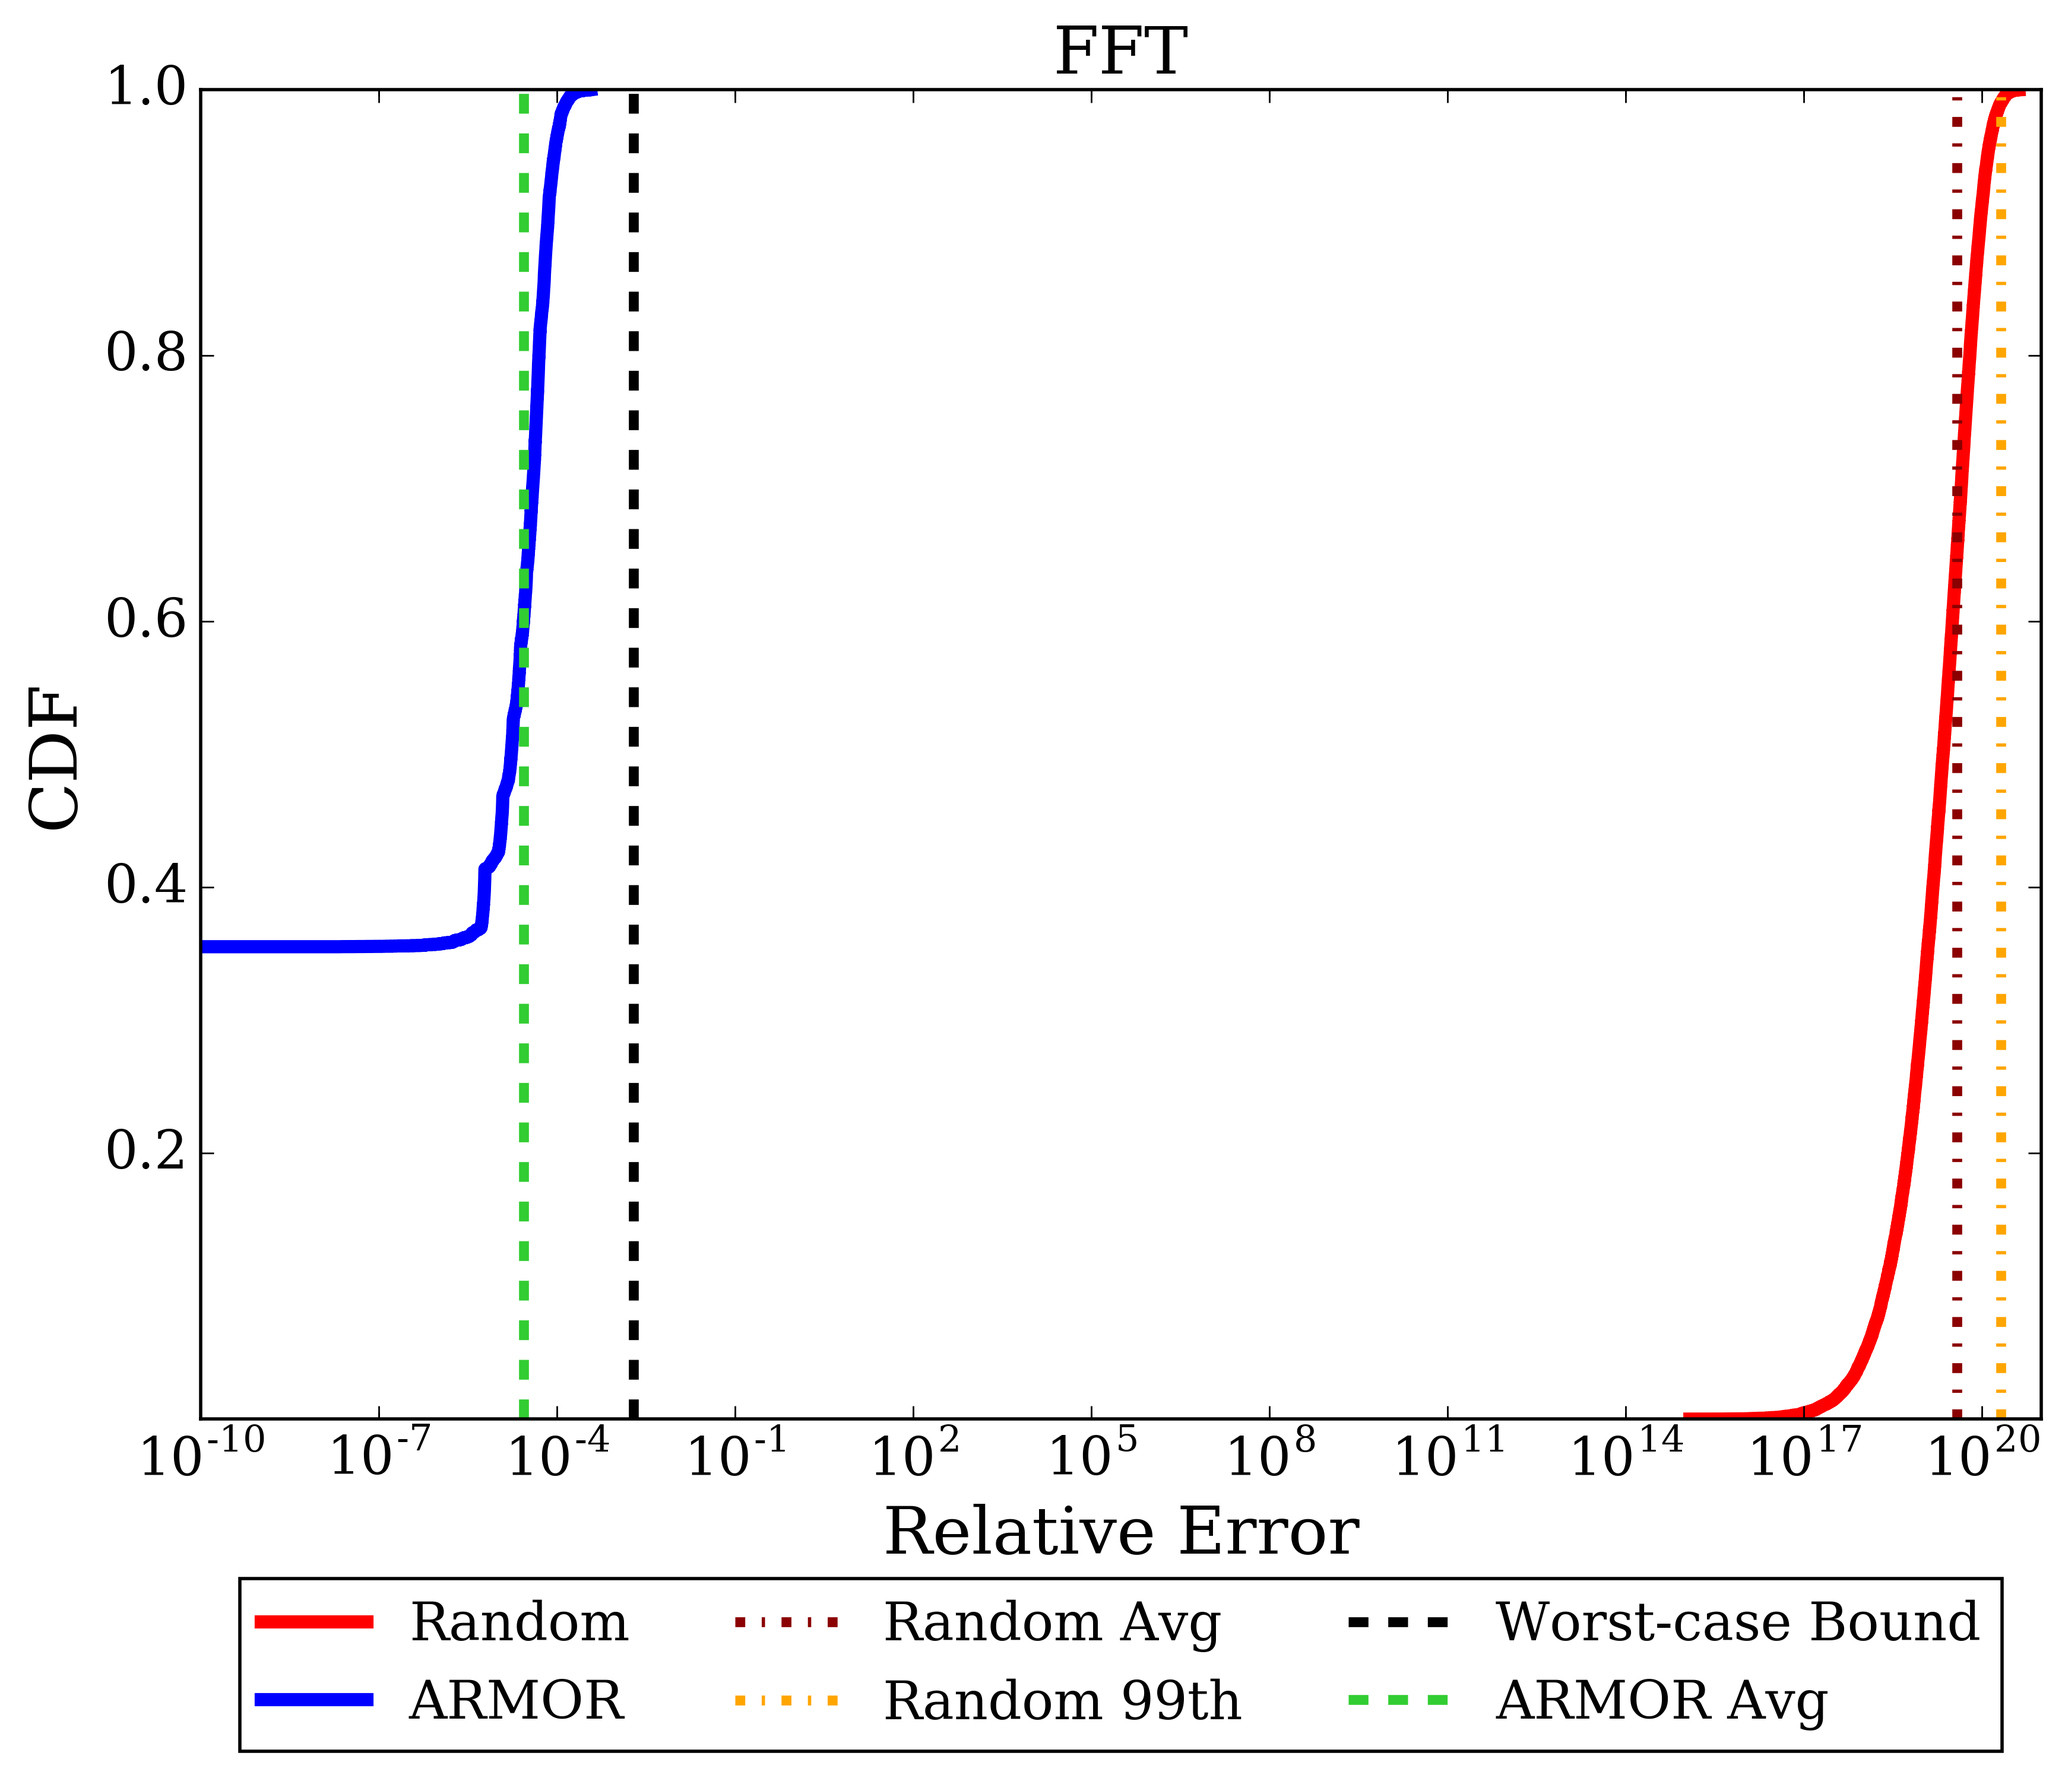
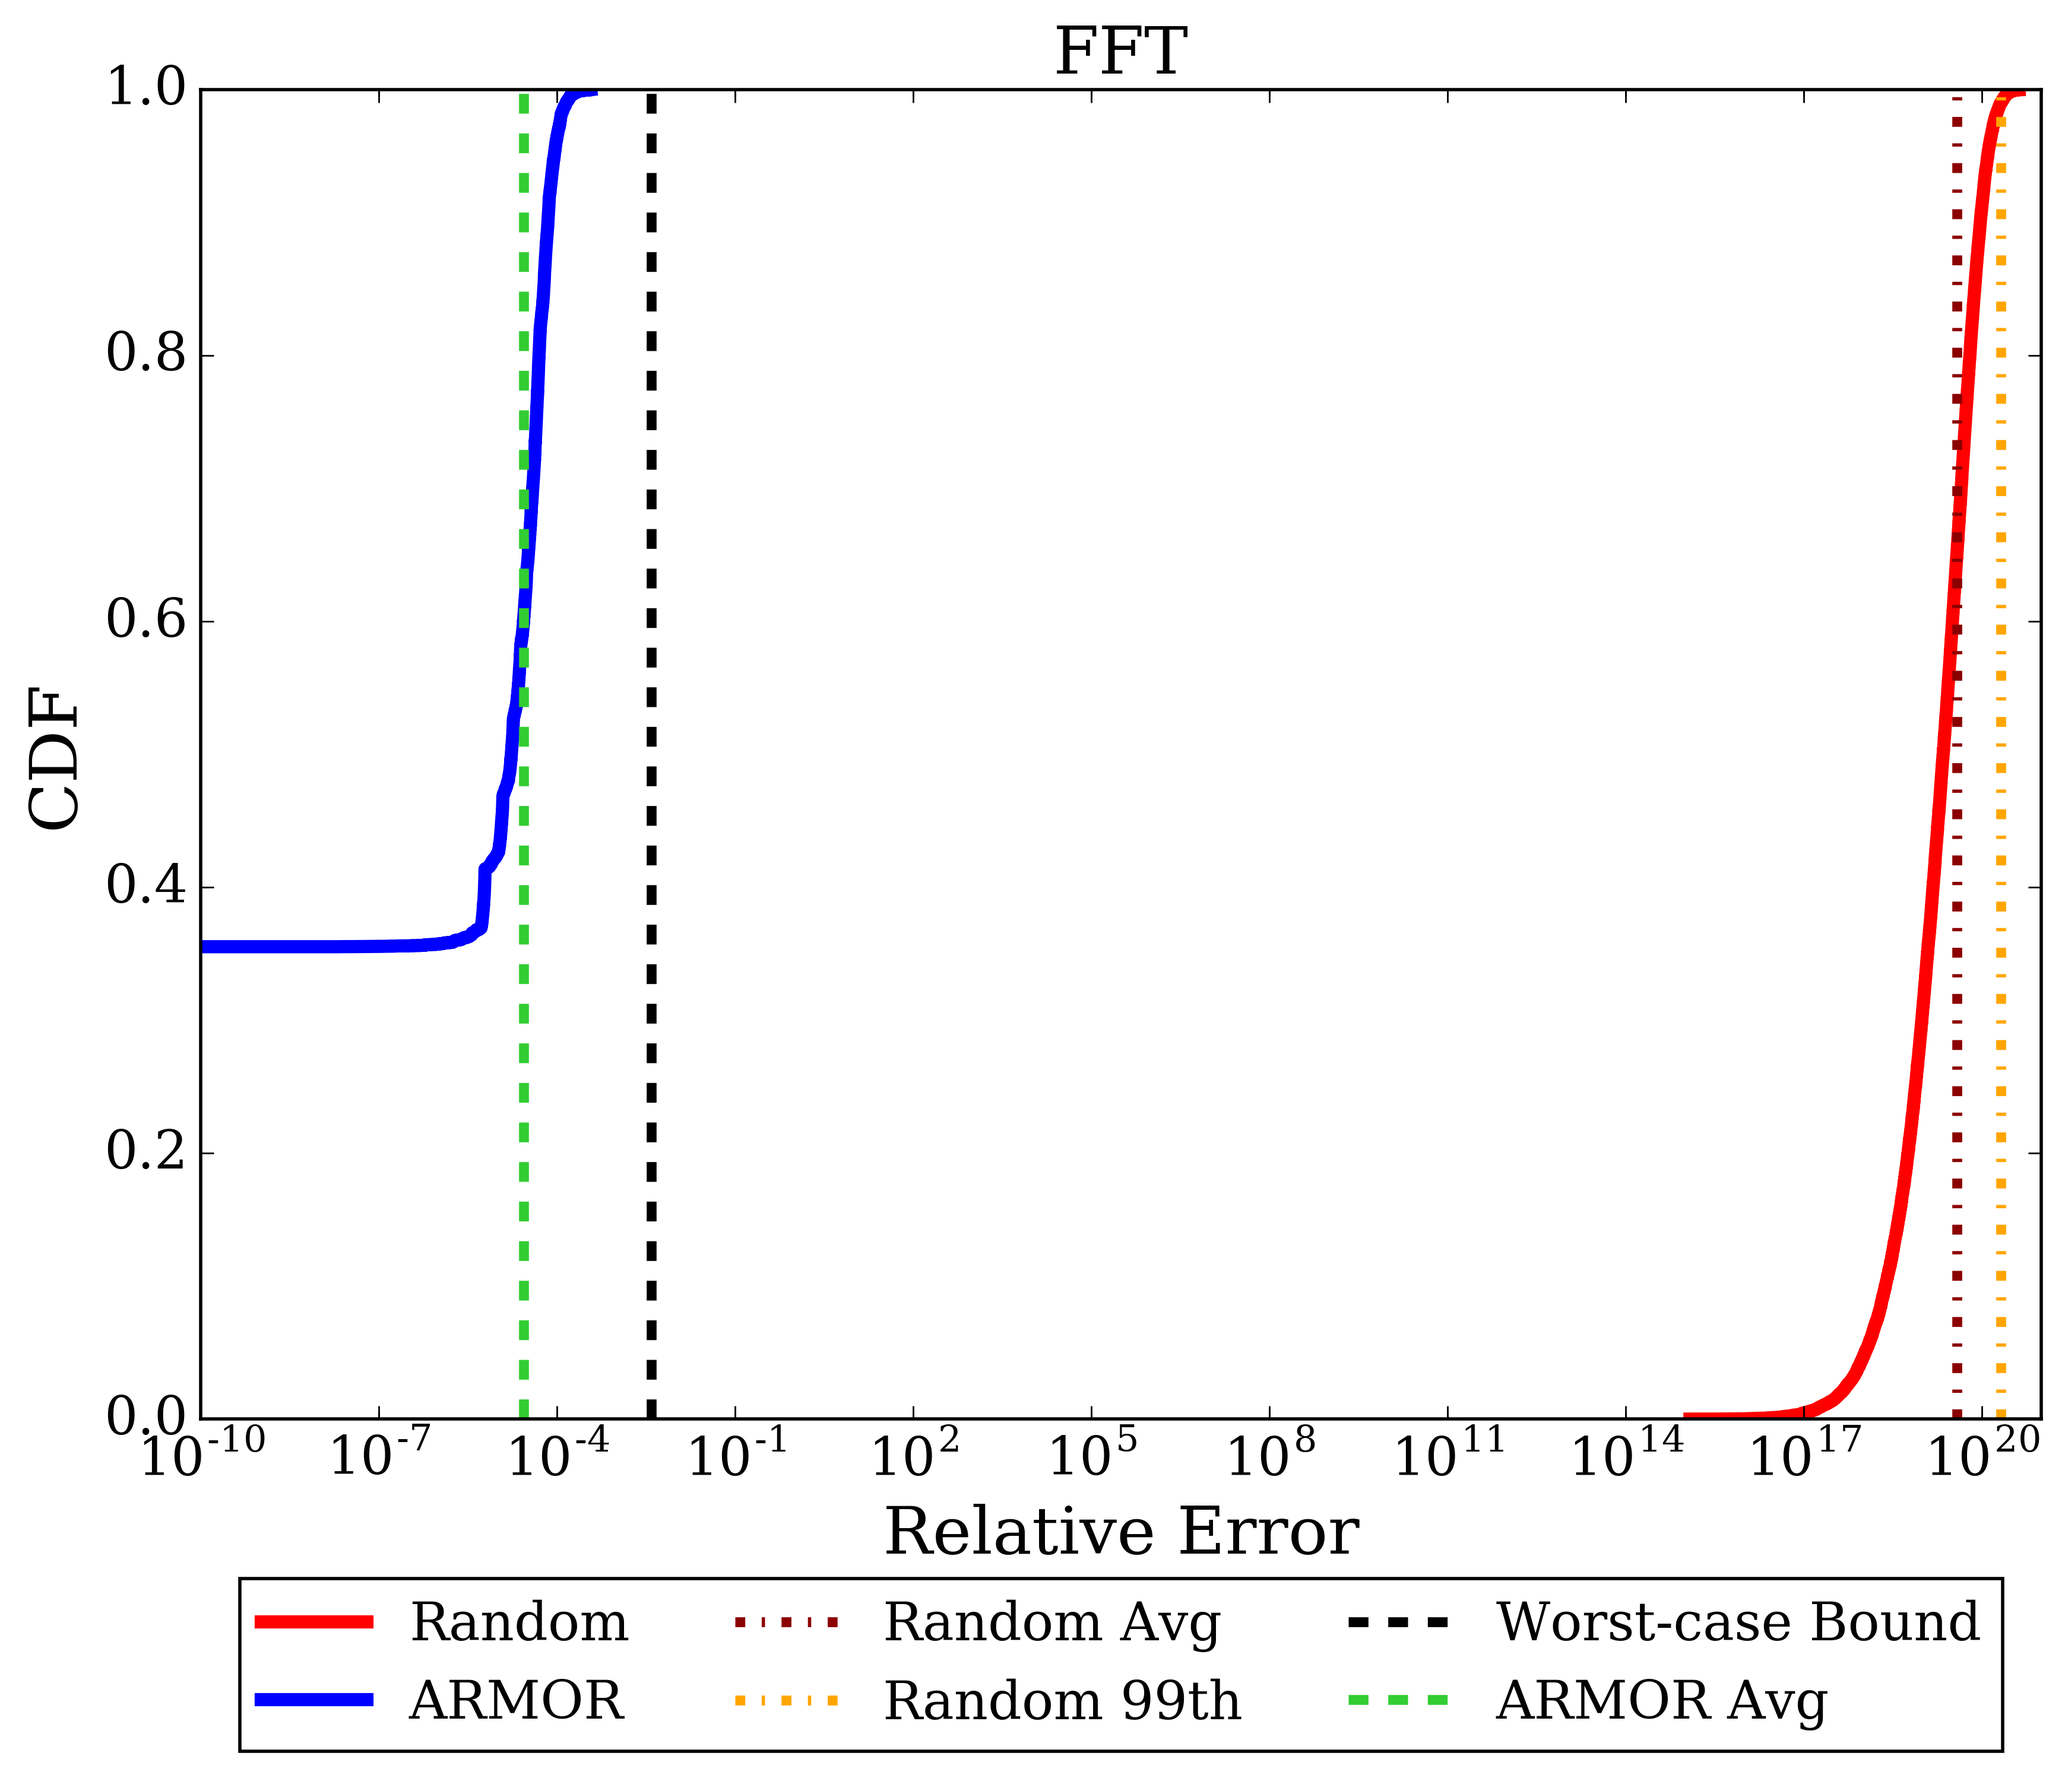
debug bound

diff --git a/cdf_plot/fft/plot_cdf.py b/cdf_plot/fft/plot_cdf.py
@@ -70,7 +70,7 @@ l2 = plt.plot(base_rand[:-1], cumulative_rand, '-',  color='r', label="Random", 
 l1 = plt.plot(base_8[:-1], cumulative_8, '-', color = 'b', label=xname, markersize=2, lw=4)
 l3 = plt.plot([avg_rand, avg_rand], [min_y, 1], '-.', color='darkred', lw=3, label="Random Avg")
 l3 = plt.plot([np.percentile(y_rand, 99), np.percentile(y_rand, 99)], [min_y, 1], '-.', color='orange', lw=3, label="Random 99th")
-l4 = plt.plot([0.0019456, 0.0019456], [min_y, 1], 'k--', lw=3, label="Worst-case Bound")
+l4 = plt.plot([0.0019456*2, 0.0019456*2], [min_y, 1], 'k--', lw=3, label="Worst-case Bound")
 l4 = plt.plot([eight_rand, eight_rand], [min_y, 1], '--', color='limegreen', lw=3, label=xname + " Avg")
 plt.title('FFT', fontsize=20)
 plt.xscale('log')

diff --git a/cdf_plot/inversek2j/plot_cdf.py b/cdf_plot/inversek2j/plot_cdf.py
@@ -79,7 +79,7 @@ l2 = plt.plot(base_rand[:-1], cumulative_rand, '-',  color='r', label="Random", 
 l1 = plt.plot(base_8[:-1], cumulative_8, '-', color = 'b', label=xname, markersize=2, lw=4)
 l3 = plt.plot([avg_rand, avg_rand], [min_y, 1], '-.', color='darkred', lw=3, label="Random Avg")
 l3 = plt.plot([np.percentile(y_rand, 99), np.percentile(y_rand, 99)], [min_y, 1],  '-.', color='orange', lw=3, label="Random 99th")
-l4 = plt.plot([7.97, 7.97], [min_y, 1], 'k--', lw=3, label="Worst-case Bound")
+l4 = plt.plot([7.97*2, 7.97*2], [min_y, 1], 'k--', lw=3, label="Worst-case Bound")
 l4 = plt.plot([eight_rand, eight_rand], [min_y, 1], '--', color='limegreen', lw=3, label=xname+" Avg")
 plt.title('Inversek2j', fontsize=20)
 plt.xscale('log')

diff --git a/cdf_plot/blackscholes/plot_cdf.py b/cdf_plot/blackscholes/plot_cdf.py
@@ -76,7 +76,7 @@ plt.plot(base_rand[:-1], cumulative_rand, '-',  color='r', label="Random", marke
 plt.plot(base_8[:-1], cumulative_8, '-', color = 'b', label=xname, markersize=3, lw=4)
 plt.plot([avg_rand, avg_rand], [min_y, 1], '-.', color='darkred', lw=3, label="Random Avg")
 plt.plot([np.percentile(y_rand, 99), np.percentile(y_rand, 99)], [min_y, 1] , '-.', color='orange', lw=3, label="Random 99th")
-plt.plot([63.8, 63.8], [min_y, 1], 'k--', lw=3, label="Worst-case Bound")
+plt.plot([63.8*2, 63.8*2], [min_y, 1], 'k--', lw=3, label="Worst-case Bound")
 plt.plot([eight_rand, eight_rand], [min_y, 1], '--', color='limegreen', lw=3, label=xname + " Avg")
 plt.title('Black-Scholes', fontsize=20)
 plt.xscale('log')

diff --git a/cdf_plot/kmeans/plot_cdf.py b/cdf_plot/kmeans/plot_cdf.py
@@ -77,7 +77,7 @@ plt.plot(base_8[:-1], cumulative_8, '-', color = 'b', label=xname, markersize=3,
 plt.plot([avg_rand, avg_rand], [min_y, 1], '-.', color='darkred', lw=3, label="Random Avg")
 plt.plot([np.percentile(y_rand, 99), np.percentile(y_rand, 99)], [min_y, 1] , '-.', color='orange', lw=3, label="Random 99th")
 #including error from subtraction
-plt.plot([1.95e-3, 1.95e-3], [min_y, 1], 'k--', lw=3, label="Worst-case Bound")
+plt.plot([1.95e-3*2, 1.95e-3*2], [min_y, 1], 'k--', lw=3, label="Worst-case Bound")
 plt.plot([eight_rand, eight_rand], [min_y, 1], '--', color='limegreen', lw=3, label=xname + " Avg")
 plt.title('K-means', fontsize=20)
 plt.xscale('log')

diff --git a/cdf_plot/jmeint/plot_cdf.py b/cdf_plot/jmeint/plot_cdf.py
@@ -71,7 +71,7 @@ plt.plot(base_8[:-1], cumulative_8, '-', color = 'b', label=xname, markersize=3,
 plt.plot([avg_rand, avg_rand], [min_y, 1], '-.', color='darkred', lw=3, label="Random Avg")
 plt.plot([np.percentile(y_rand, 99), np.percentile(y_rand, 99)], [min_y, 1] , '-.', color='orange', lw=3, label="Random 99th")
 #including error from subtraction
-plt.plot([31.9, 31.9], [min_y, 1], 'k--', lw=3, label="Worst-case Bound")
+plt.plot([31.9*2, 31.9*2], [min_y, 1], 'k--', lw=3, label="Worst-case Bound")
 plt.plot([eight_rand, eight_rand], [min_y, 1], '--', color='limegreen', lw=3, label=xname + " Avg")
 plt.title('Jmeint', fontsize=20)
 plt.xscale('log')
